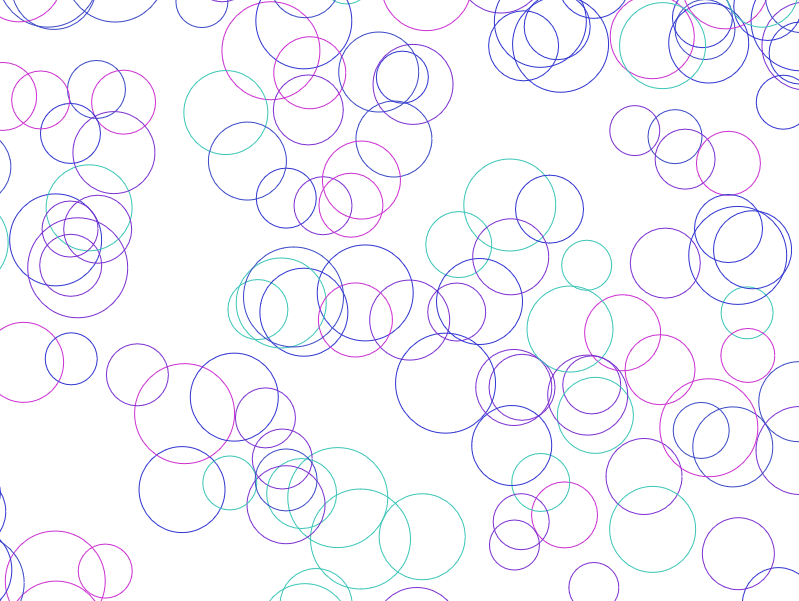
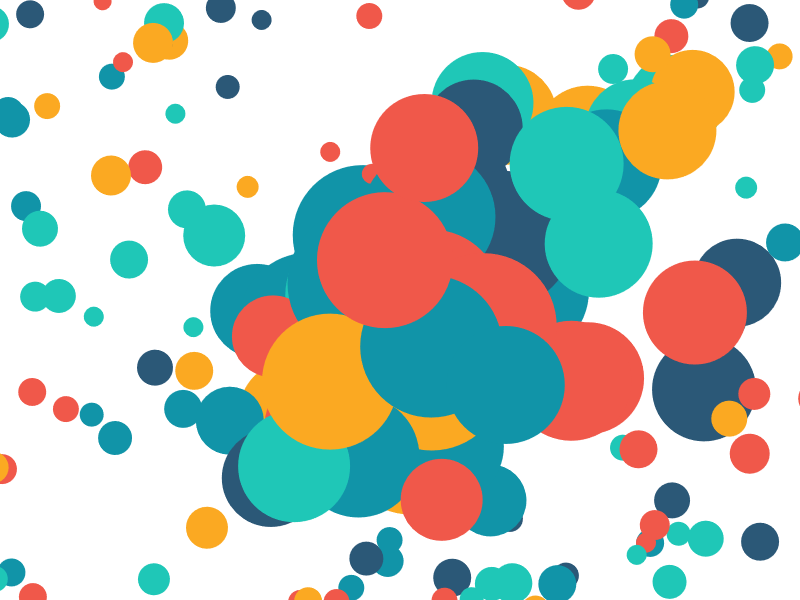
finished and randomized pallet with new screenshot

diff --git a/animation.js b/animation.js
@@ -1,48 +1,100 @@
 let canvas = document.querySelector('#myCanvas');
 let c = canvas.getContext("2d");
-let particleCount = 500;
-let maxRadius = 50;
-let minRadius = 25;
-let circleStroke = 'blue'
+// number of particles in the simulation
+let particleCount = 800;
+// maximum radius of the bubble random generation
+let maxRadius = 20;
+// minimum radius of the bubble random generation
+let minRadius = 10;
+// maximum radius of bubbles during interaction
+let maxGrowRadius = 70;
+// the maximum speed the bubbles can have
 let velocityScale = 5;
+// the radius of the circle of the mouse interaction threshold
+let mouseAffectSize = 150;
+// speed that bubbles change size
+let growRate = 5;
+// speed that bubbles shrink in size
+let shrinkRate = 2;
 
 // set size of canvas to be the size of window
 canvas.height = window.innerHeight;
 canvas.width = window.innerWidth;
 
-// a color pallete to choose from
-colors = ['#3A8DC5', '#3A48C5', '#3AC5B7', '#7B2FD0', '#CB2FD0', '#2F34D0']
+// a color pallet to choose from
+color1 = ['#F3FEB0', '#FEA443', '#705E78', '#A5AAA3', '#0812F33']
+color2 = ['#FBA922', '#F0584A', '#2B5877', '#1194A8', '#1FC7B7']
+color3 = ['#66D1D1', '#48A2A3', '#115569', '#FCE66F', '#FFFAE8']
+color4 = ['#BF303C', '#082640', '#D9BA82', '#F2522E', '#D92323']
+
+colorPallets = [color1, color2, color3, color4]
+
+colors = colorPallets[getRandomIntFromRange(0,3)];
+
+// create a mouse variable to store the mouse position from the event handler
+var mouse = {
+    x: undefined,
+    y: undefined
+}
+
+// add mouseover event listener for mouse interactivity
+window.addEventListener('mousemove', function(event){
+    mouse.x = event.x;
+    mouse.y = event.y;
+});
+
+// event listener for window resize
+window.addEventListener('resize', function(){
+    // set size of canvas to be the size of window
+    canvas.height = window.innerHeight;
+    canvas.width = window.innerWidth;
+
+    init();
+
+});
 
 // a class that represents the circle, with two methods, draw and update
-function Circle(x, dx, y, dy, radius, color) {
+function Circle(x, dx, y, dy, radius, fill) {
     this.x = x;
     this.y = y;
-    this.radius = radius;
-    this.color = color;
+    this.currentRadius = radius;
+    this.minRadius = radius;
+    this.fill = fill;
     this.dx = dx;
     this.dy = dy;
 
     this.draw = function() {
         c.beginPath();
-        c.arc(this.x, this.y, this.radius, 0, Math.PI*2, false);
-        c.strokeStyle = this.color;
-        c.stroke();
+        c.arc(this.x, this.y, this.currentRadius, 0, Math.PI*2, false);
+        c.fillStyle = this.fill;
+        c.fill();
     }
 
     this.update = function() {
-        if (this.x + this.radius > innerWidth || this.x - this.radius < 0){
+        if (this.x + this.currentRadius > innerWidth || this.x - this.currentRadius < 0){
             this.dx = -this.dx;
         }
-        if (this.y + this.radius > innerHeight || this.y - this.radius < 0){
+        if (this.y + this.currentRadius > innerHeight || this.y - this.currentRadius < 0){
             this.dy = -this.dy;
         }
         this.x += this.dx;
         this.y += this.dy;
 
+        // interactivity with mouse
+        if (mouse.x - this.x < mouseAffectSize && mouse.x - this.x > -mouseAffectSize && 
+            mouse.y - this.y < mouseAffectSize && mouse.y - this.y > -mouseAffectSize){
+                if (this.currentRadius < maxGrowRadius){
+                    this.currentRadius += growRate;
+                }
+        } else if (this.currentRadius > this.minRadius){
+            this.currentRadius -= shrinkRate;
+        }
+
         this.draw();
     }
 }
 
+// a function that animates the screen with a recursive running loop
 function animate(){
     //  calls a specified function to update an animation before the next repaint
     // this is creating a recursive animation call
@@ -51,36 +103,43 @@ function animate(){
     c.clearRect(0, 0, innerWidth, innerHeight);
 
     for (var i = 0; i < bubbles.length;  i++){
-        console.log(bubbles[i]);
         bubbles[i].update();
     };
 }
 
+// generate a randomg integer inside a range
 function getRandomIntFromRange(min, max){
     return Math.floor(Math.random()*(max-min+1)+min);
 };
 
-let bubbles = [];
-for (let i=0; i < particleCount; i++){
-    /* this is arranged to not spawn a bubble at an x or y that puts the radius off screen
-    because this locks the bubble to the edge by the collision function just reversing
-    the direction on edge contact */
-    let particleRadius = getRandomIntFromRange(minRadius, maxRadius);
+// an array to store the bubbles
+var bubbles;
 
-    x = getRandomIntFromRange((0+particleRadius), (innerWidth-particleRadius));
-    y = getRandomIntFromRange((0+particleRadius), (innerHeight-particleRadius));
+function init(){
 
-    // to give a random direction of travel, both axis must be independently calculated
-    dx = (Math.random()-0.5)*velocityScale;
-    dy = (Math.random()-0.5)*velocityScale;
+    bubbles = [];
 
-    // radius of particle random
-    radius = particleRadius;
+    for (let i=0; i < particleCount; i++){
+        /* this is arranged to not spawn a bubble at an x or y that puts the radius off screen
+        because this locks the bubble to the edge by the collision function just reversing
+        the direction on edge contact */
+        let particleRadius = getRandomIntFromRange(minRadius, maxRadius);
 
-    // randomize the color of the bubble
-    color = colors[getRandomIntFromRange(1, colors.length)];
+        x = getRandomIntFromRange((0+particleRadius), (innerWidth-particleRadius));
+        y = getRandomIntFromRange((0+particleRadius), (innerHeight-particleRadius));
 
-    bubbles.push(new Circle(x, dx, y, dy, radius, color));
+        // to give a random direction of travel, both axis must be independently calculated
+        dx = (Math.random()-0.5)*velocityScale;
+        dy = (Math.random()-0.5)*velocityScale;
+
+        // randomize the color of the bubble
+        // fill = colors[getRandomIntFromRange(0, colors.length)];
+        fill = colors[Math.floor(Math.random()*(colors.length))];
+
+        bubbles.push(new Circle(x, dx, y, dy, particleRadius, fill));
+    }
 }
+
+init();
 
 animate();

diff --git a/index.html b/index.html
@@ -11,7 +11,6 @@
     
     <canvas id="myCanvas"></canvas>
 
-
     <script src="animation.js"></script>
 </body>
 </html>
